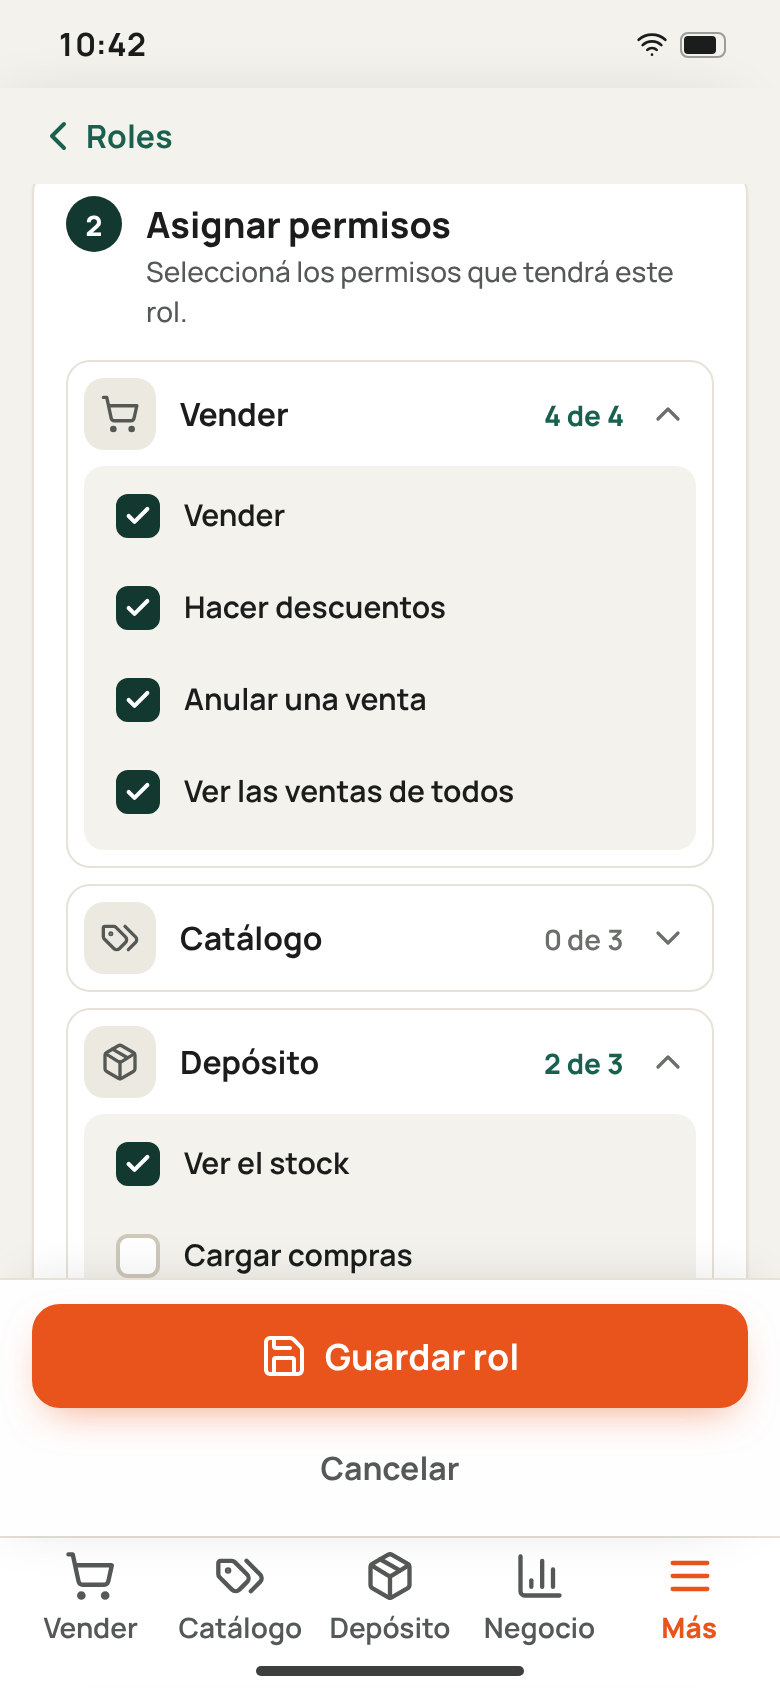
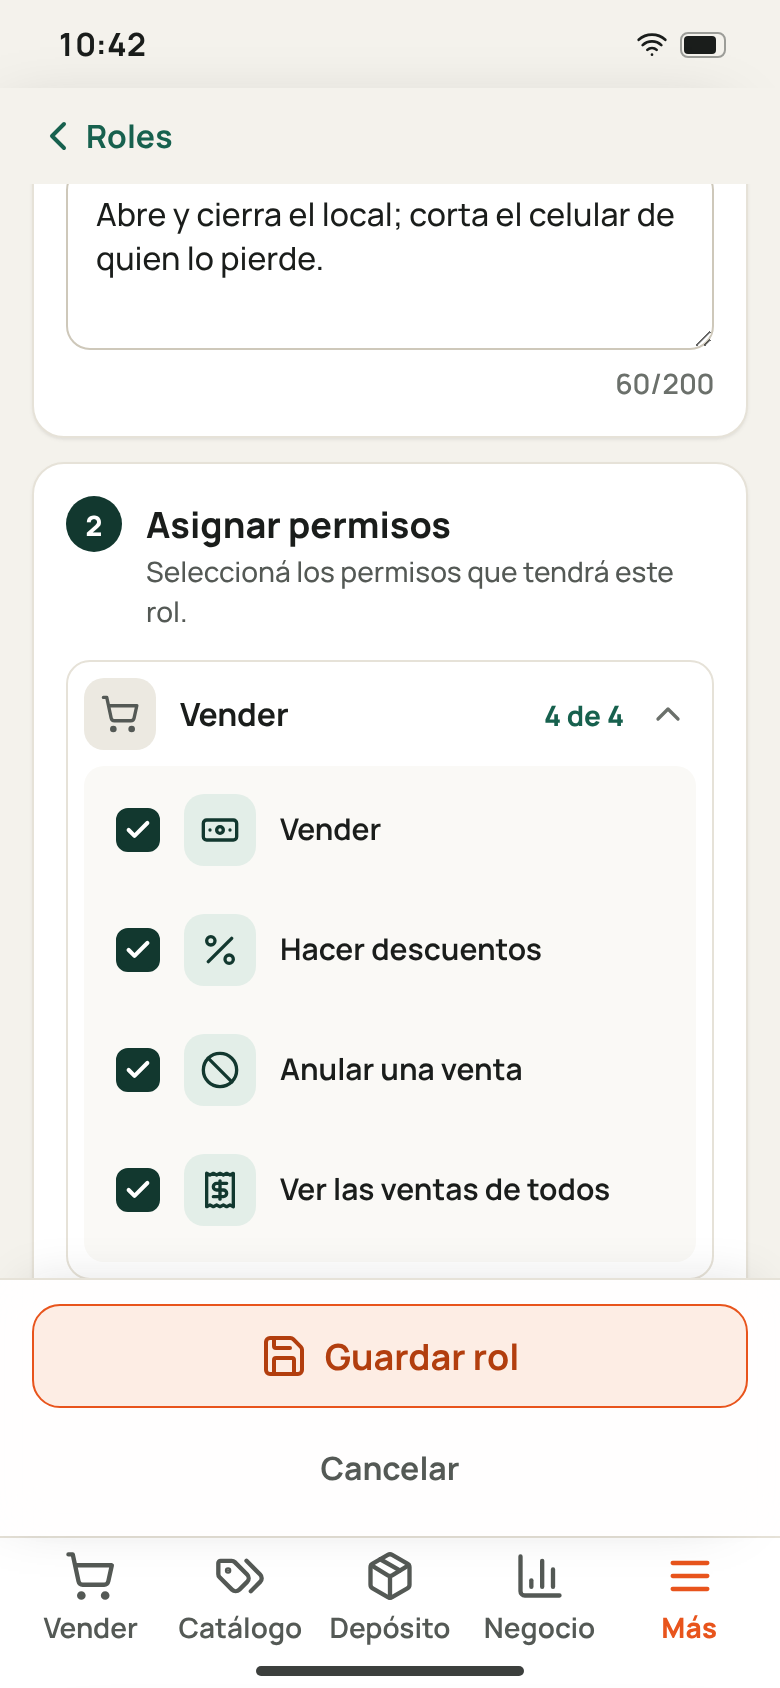
Roles: la computadora aprobada; en el celular, permisos con ícono y tarjetas de rol con los números en grande (02b)
Carlos aprobó la maqueta de la computadora y los ocho puntos que resolvió
el maquetador. En el celular pidió íconos en los permisos y tarjetas con
más estilo para que los datos llamen la atención.

Claude-Session: https://claude.ai/code/session_01BmbhiYJAfQvWshUgYzn7JL

diff --git a/docs/design/mockups/users-roles/final/shared/roles-model.js b/docs/design/mockups/users-roles/final/shared/roles-model.js
@@ -20,29 +20,29 @@ window.RolesModel = (function () {
   /* Un grupo por parte de la aplicación, en el orden del menú. */
   var GROUPS = [
     { id: "sales", name: "Vender", icon: "shopping-cart", detail: "Cobrar, descuentos y anulaciones", example: true, perms: [
-      { id: "sell", name: "Vender", short: "Vender", exp: "Armar una venta y cobrarla." },
-      { id: "discount", name: "Hacer descuentos", exp: "Bajar el precio de un renglón o de toda la venta." },
-      { id: "void", name: "Anular una venta", exp: "Anular una venta ya cobrada, con su motivo." },
-      { id: "all-sales", name: "Ver las ventas de todos", exp: "Ver las ventas de hoy de cualquier persona, no solo las propias." }
+      { id: "sell", icon: "banknote", name: "Vender", short: "Vender", exp: "Armar una venta y cobrarla." },
+      { id: "discount", icon: "percent", name: "Hacer descuentos", exp: "Bajar el precio de un renglón o de toda la venta." },
+      { id: "void", icon: "ban", name: "Anular una venta", exp: "Anular una venta ya cobrada, con su motivo." },
+      { id: "all-sales", icon: "receipt", name: "Ver las ventas de todos", exp: "Ver las ventas de hoy de cualquier persona, no solo las propias." }
     ] },
     { id: "catalog", name: "Catálogo", icon: "tags", detail: "Productos, precios y costos", example: true, perms: [
-      { id: "products", name: "Cargar productos", exp: "Crear y cambiar productos, sus fotos y sus códigos." },
-      { id: "prices", name: "Cambiar precios", exp: "Cambiar los precios y las listas de precios." },
-      { id: "costs", name: "Ver los costos", exp: "Ver lo que costó cada producto y su margen." }
+      { id: "products", icon: "package-plus", name: "Cargar productos", exp: "Crear y cambiar productos, sus fotos y sus códigos." },
+      { id: "prices", icon: "badge-dollar-sign", name: "Cambiar precios", exp: "Cambiar los precios y las listas de precios." },
+      { id: "costs", icon: "coins", name: "Ver los costos", exp: "Ver lo que costó cada producto y su margen." }
     ] },
     { id: "stock", name: "Depósito", icon: "package", detail: "Stock, compras y conteos", example: true, perms: [
-      { id: "see-stock", name: "Ver el stock", exp: "Ver cuánto hay de cada producto y dónde está." },
-      { id: "purchases", name: "Cargar compras", exp: "Recibir mercadería y cargar la factura del proveedor." },
-      { id: "count", name: "Contar", exp: "Contar una estantería y corregir el stock." }
+      { id: "see-stock", icon: "boxes", name: "Ver el stock", exp: "Ver cuánto hay de cada producto y dónde está." },
+      { id: "purchases", icon: "truck", name: "Cargar compras", exp: "Recibir mercadería y cargar la factura del proveedor." },
+      { id: "count", icon: "clipboard-list", name: "Contar", exp: "Contar una estantería y corregir el stock." }
     ] },
     { id: "users", name: "Usuarios", icon: "users", detail: "Personas, sesiones y roles", perms: [
-      { id: "see-people", name: "Ver las personas", exp: "Abrir Usuarios: la lista y la tarjeta de cada persona, con sus sesiones y sus celulares con huella." },
-      { id: "manage-people", name: "Administrar personas", includes: "see-people", exp: "Cambiar el nombre y el correo, borrar, dar de baja y de alta; autorizar, junto con «Administrar roles»." },
-      { id: "cut-sessions", name: "Cortar sesiones y huellas", includes: "see-people", exp: "Cerrar una sesión o todas, quitar un celular con huella y «Se perdió un celular» de cualquier persona." },
-      { id: "manage-roles", name: "Administrar roles", includes: "see-people", exp: "Abrir la pestaña Roles, armar los roles y darles o quitarles roles a las personas." }
+      { id: "see-people", icon: "eye", name: "Ver las personas", exp: "Abrir Usuarios: la lista y la tarjeta de cada persona, con sus sesiones y sus celulares con huella." },
+      { id: "manage-people", icon: "user-cog", name: "Administrar personas", includes: "see-people", exp: "Cambiar el nombre y el correo, borrar, dar de baja y de alta; autorizar, junto con «Administrar roles»." },
+      { id: "cut-sessions", icon: "scissors", name: "Cortar sesiones y huellas", includes: "see-people", exp: "Cerrar una sesión o todas, quitar un celular con huella y «Se perdió un celular» de cualquier persona." },
+      { id: "manage-roles", icon: "shield", name: "Administrar roles", includes: "see-people", exp: "Abrir la pestaña Roles, armar los roles y darles o quitarles roles a las personas." }
     ] },
     { id: "offline", name: "Sin conexión", icon: "wifi-off", detail: "Entrar con la huella cuando se corta internet", perms: [
-      { id: "work-offline", name: "Trabajar sin conexión", exp: "Prender en su celular la entrada con la huella sin conexión." }
+      { id: "work-offline", icon: "wifi-off", name: "Trabajar sin conexión", exp: "Prender en su celular la entrada con la huella sin conexión." }
     ] }
   ];
 

diff --git a/docs/design/mockups/users-roles/final/shared/roles-screen.js b/docs/design/mockups/users-roles/final/shared/roles-screen.js
@@ -30,7 +30,7 @@
   function holdersText(n) { return n === 0 ? "Nadie lo tiene" : n === 1 ? "Lo tiene 1 persona" : "Lo tienen " + n + " personas"; }
   function stack(ids) {
     if (!ids.length) return "";
-    var max = desktop ? 4 : 3;
+    var max = desktop ? 4 : ids.length > 2 ? 1 : 2; // en el celular, como mucho dos círculos, para que entre
     var h = ids.slice(0, max).map(function (id) { return avatar(M.person(id)); }).join("");
     if (ids.length > max) h += '<span class="avatar avatar-more">+' + (ids.length - max) + "</span>";
     return '<span class="avatar-stack">' + h + "</span>";
@@ -41,8 +41,14 @@
       '<span class="role-icon">' + ico(r.icon) + "</span>" +
       '<span class="role-row-main"><span class="role-row-name">' + esc(r.name) + "</span>" +
       (r.description ? '<span class="role-row-description">' + esc(r.description) + "</span>" : "") + "</span>" +
-      '<span class="role-row-perms">' + ico("key-round", "i-s") + M.plural(r.perms.length, "permiso", "permisos") + "</span>" +
-      '<span class="role-row-holders' + (h.length ? "" : " is-empty") + '">' + stack(h) + "<span>" + holdersText(h.length) + "</span></span>" +
+      (desktop ?
+        '<span class="role-row-perms">' + ico("key-round", "i-s") + M.plural(r.perms.length, "permiso", "permisos") + "</span>" +
+        '<span class="role-row-holders' + (h.length ? "" : " is-empty") + '">' + stack(h) + "<span>" + holdersText(h.length) + "</span></span>" :
+        // En el celular, los números en grande, cada uno en su recuadro (pedido de Carlos).
+        '<span class="role-row-stats">' +
+          '<span class="role-stat">' + ico("key-round") + "<b>" + r.perms.length + "</b><span>" + (r.perms.length === 1 ? "permiso" : "permisos") + "</span></span>" +
+          '<span class="role-stat' + (h.length ? "" : " is-empty") + '">' + (h.length ? stack(h) + "<b>" + h.length + "</b><span>" + (h.length === 1 ? "persona" : "personas") + "</span>" : ico("users") + "<span>Nadie lo tiene</span>") + "</span>" +
+        "</span>") +
       ico("chevron-right", "role-row-arrow") + "</button>";
   }
   function renderList(arrivingId) {
@@ -141,6 +147,7 @@
         var id = "perm-" + p.id;
         return '<label class="perm-item' + (tied.length ? " is-tied" : "") + '" for="' + id + '" data-mark>' +
           '<input type="checkbox" class="perm-check" id="' + id + '" data-perm="' + p.id + '"' + (on ? " checked" : "") + (tied.length ? " disabled" : "") + ">" +
+          (desktop ? "" : '<span class="perm-icon">' + ico(p.icon) + "</span>") + // en el celular, cada permiso con su ícono (pedido de Carlos)
           '<span class="perm-text"><span class="perm-name">' + esc(p.name) + "</span>" +
           (desktop ? '<span class="perm-explanation">' + esc(p.exp) + "</span>" : "") +
           (tied.length ? '<span class="perm-tied">' + ico("lock", "i-s") + "<span>" + (desktop ? "Va incluido en " : "Lo incluye ") +

diff --git a/docs/design/mockups/users-roles/final/phone/index.html b/docs/design/mockups/users-roles/final/phone/index.html
@@ -25,12 +25,27 @@
   /* Lista */
   .role-list-bar { margin-bottom: 12px; }
   .role-list-bar .btn { flex: none; padding: 0 14px; }
-  .role-row { grid-template-columns: 44px minmax(0, 1fr) 16px; grid-template-areas: "icon main arrow" "icon perms arrow" "icon holders arrow"; gap: 4px 12px; padding: 12px 12px 12px 14px; }
+  /* La tarjeta de cada rol: nombre y descripción arriba; abajo, los dos números en grande, cada uno
+     en su recuadro gris suave, para que los datos se lean de un vistazo (pedido de Carlos). */
+  .role-row { grid-template-columns: 44px minmax(0, 1fr) 16px; grid-template-areas: "icon main arrow" "stats stats stats"; gap: 12px; padding: 14px; overflow: hidden; }
+  .role-row::before { content: ""; position: absolute; left: 0; top: 14px; bottom: 14px; width: 4px; border-radius: 0 4px 4px 0; background: var(--pino); }
   .role-row:active { transform: scale(.98); }
   .role-icon { width: 44px; height: 44px; align-self: start; }
+  .role-row-name { font-size: 17px; font-weight: 800; }
   .role-row-description { white-space: normal; display: -webkit-box; -webkit-line-clamp: 2; -webkit-box-orient: vertical; }
-  .role-row-main { margin-bottom: 2px; }
-  .role-row-holders { gap: 8px; }
+  .role-row-arrow { align-self: center; }
+  .role-row-stats { grid-area: stats; display: grid; grid-template-columns: 1fr 1fr; gap: 8px; }
+  .role-stat { display: flex; align-items: center; gap: 6px; min-width: 0; padding: 8px 10px; border-radius: 12px; background: var(--gris-suave); color: var(--texto-2); font-size: 14px; font-weight: 650; white-space: nowrap; }
+  .role-stat > .i { color: var(--pino); }
+  .role-stat b { font-size: 20px; line-height: 24px; font-weight: 800; color: var(--pino); }
+  .role-stat .avatar-stack .avatar { width: 26px; height: 26px; font-size: 11px; }
+  .role-stat.is-empty { color: var(--texto-3); }
+  .role-stat.is-empty > .i { color: var(--texto-3); }
+
+  /* Cada permiso con su ícono, en el celular (pedido de Carlos) */
+  .perm-item { grid-template-columns: 22px 36px minmax(0, 1fr); align-items: center; }
+  .perm-icon { width: 36px; height: 36px; border-radius: 10px; display: grid; place-items: center; background: var(--superficie); border: 1px solid var(--borde); color: var(--texto-2); }
+  .perm-check:checked + .perm-icon { background: var(--pino-suave); border-color: transparent; color: var(--pino); }
 
   /* La pantalla del rol entra desde la derecha, como iPhone, y tapa la lista (no el menú) */
   .role-editor { position: absolute; left: 0; right: 0; top: 44px; bottom: 76px; z-index: 20; background: var(--fondo); display: flex; flex-direction: column; transform: translateX(100%); transition: transform var(--t-nav) var(--curva); }

diff --git a/docs/chapters/02-users/screens.md b/docs/chapters/02-users/screens.md
@@ -6,7 +6,7 @@ Se diseñan una por vez, en este orden (constitución, paso 2). Las maquetas se 
 | # | Pantalla | Qué se tiene que poder hacer | Maqueta |
 |---|---|---|---|
 | 1 | Usuarios (etapa a), en Más → Usuarios | Ver a las personas, autorizar, cambiar el nombre o el correo, borrar, dar de baja y de alta; en la tarjeta de cada persona, sus sesiones y sus celulares con huella; «Se perdió un celular» | **Computadora, aprobada:** `mockups/users-a/final/desktop/`, copia de la variante 1 del director (primera ronda) con «Se perdió un celular» como botón secundario al lado de «Autorizar a alguien», en Más → Usuarios, con las teclas solo con Alt y, al abrir, la primera de la lista elegida (pedido de Carlos). **Celular, aprobada:** `mockups/users-a/final/phone/`, copia de la variante 1 de la tercera ronda, «Entrar a la tarjeta» (`mockups/users-a3/phone/variant-1-push/`), con «Se perdió un celular» resaltado en rojo suave y con borde, para que se distinga de las personas y se vea que se toca; sin «En espejo» y con la barra de la tarjeta de color liso; con el buscador y los filtros de la computadora en un diálogo que abre «Buscar usuario», al lado del título (pedido de Carlos); la cabecera, las cuentas, «Se perdió un celular» y la tarjeta, con el estilo de la referencia que pasó Carlos (diseño de 02, § 8) |
-| 2 | Roles (etapa b), en Más → Usuarios, pestaña Roles | Buscar un rol (R7.12), crear uno con nombre y descripción, asignarle permisos, darlo o sacarlo a las personas y guardarlo todo junto (R7.13); duplicar y borrar (R7.3) | **En maqueta, a aprobar:** la maqueta final se arma desde la referencia que eligió Carlos (`mockups/users-roles/reference/copilot-role.webp`), con el menú de la aplicación. Lo que pidió de ella: la lista de roles con buscador y «Nuevo rol», y de cada rol su ícono, nombre, descripción, cuántos permisos, cuántas personas y sus iniciales; la pantalla del rol con «1 Información del rol» (nombre, descripción con «n/200»), «2 Asignar permisos» (un grupo plegable por parte de la aplicación, con su ícono, su detalle y «n de m», y adentro una casilla por permiso con su explicación) y «3 Quiénes lo tienen»; «Cancelar» y «Guardar rol» arriba a la derecha (en el celular, fijos abajo); a la derecha, en la computadora, la vista previa del rol (cómo se ve y cuántos permisos da de cada grupo); en el celular, sin vista previa |
+| 2 | Roles (etapa b), en Más → Usuarios, pestaña Roles | Buscar un rol (R7.12), crear uno con nombre y descripción, asignarle permisos, darlo o sacarlo a las personas y guardarlo todo junto (R7.13); duplicar y borrar (R7.3) | **Computadora, aprobada; celular, a aprobar:** la maqueta final (`mockups/users-roles/final/`) se arma desde la referencia que eligió Carlos (`mockups/users-roles/reference/copilot-role.webp`), con el menú de la aplicación. Lo que pidió de ella: la lista de roles con buscador y «Nuevo rol», y de cada rol su ícono, nombre, descripción, cuántos permisos, cuántas personas y sus iniciales; la pantalla del rol con «1 Información del rol» (nombre, descripción con «n/200»), «2 Asignar permisos» (un grupo plegable por parte de la aplicación, con su ícono, su detalle y «n de m», y adentro una casilla por permiso con su explicación) y «3 Quiénes lo tienen»; «Cancelar» y «Guardar rol» arriba a la derecha (en el celular, fijos abajo); a la derecha, en la computadora, la vista previa del rol (cómo se ve y cuántos permisos da de cada grupo); en el celular, sin vista previa, cada permiso con su ícono y cada rol de la lista con sus dos números en grande, en recuadros. Sin cambios, «Guardar rol» va apagado y se enciende con el primer cambio; al abrir un rol, solo el primer grupo de permisos está desplegado |
 | 3 | Los roles de una persona (etapa b), al autorizarla y en su tarjeta | Elegir los roles de una persona al autorizarla y cambiárselos después, viendo qué suma y qué pierde | **Computadora, aprobada:** la variante 1 del director, «La tarjeta» (`mockups/users-person-roles/desktop/variant-1-card/`), tal cual. **Celular, aprobada:** la variante 2, «Lo que puede hacer» (`mockups/users-person-roles/phone/variant-2-abilities/`), con su forma y sus ideas («¿Qué puede hacer…?», «Igual que alguien», lo que puede abajo), pero los interruptores son de roles y no de permisos, como en la computadora: se asignan roles en los dos (R7.5, 00 · R1.5; pedido de Carlos). Lo que pide una regla y la maqueta no muestra lo agrega el código siguiendo las reglas, como la descripción de cada rol (R7.3). En el diálogo de autorizar va primero el correo y después el nombre, que es opcional; el cursor arranca en el correo (pedido de Carlos) |
 | 4 | Sin permiso (etapa b), al abrir algo sin permiso o al perderlo usándolo | Entender qué permiso falta, quién lo tiene y quién lo da, copiar el pedido y seguir con lo que sí se puede | **Computadora y celular, aprobadas:** la variante 1 del director, «La puerta que explica» (`mockups/app-no-permission/desktop/variant-1-door/` y `mockups/app-no-permission/phone/variant-1-door/`), tal cual y sin maqueta final (pedido de Carlos) |
 

diff --git a/docs/design/mockups/users-roles/final/changes.md b/docs/design/mockups/users-roles/final/changes.md
@@ -125,6 +125,12 @@ Las personas y los roles son inventados; quien mira es Rubén Paredes, con Admin
   que no parezca un hueco hasta el fondo (pedido de Carlos). El mismo gris va en la tarjeta del rol
   de la vista previa. «Cancelar» va como botón de solo texto (`.btn-fantasma`), no blanco con
   borde. Los avatares toman los tonos suaves del lenguaje, con variables y sin colores sueltos.
+- **En el celular, cada rol de la lista es una tarjeta con más peso** (pedido de Carlos): una franja
+  pino a la izquierda, el nombre más grande y, abajo, los dos datos en recuadros gris suave con el
+  número en grande: «🔑 15 permisos» y las iniciales con «2 personas» (como mucho dos círculos: con
+  más de dos personas, una inicial y «+N»). La computadora queda como se aprobó.
+- **En el celular, cada permiso lleva su ícono** al lado de la casilla, que se pone pino suave al
+  tildarlo (pedido de Carlos). Los íconos de los grupos de ejemplo también son de ejemplo.
 - **«Guardar rol» arranca apagado** (naranja suave, sin sombra, sin tocarse) y se pone naranja fuerte
   con el primer cambio, para que llame la atención; si se deshace el cambio, vuelve a apagarse. En
   un duplicado arranca encendido, porque la copia todavía no se guardó (pedido de Carlos).
